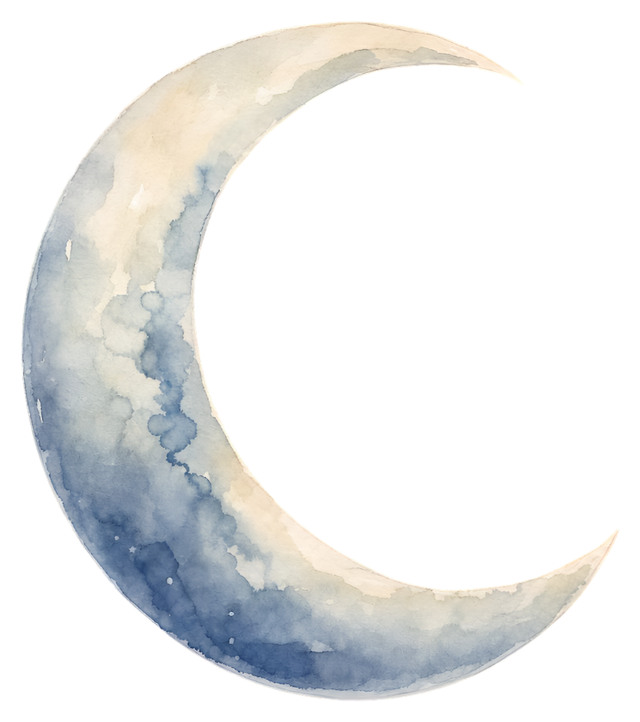
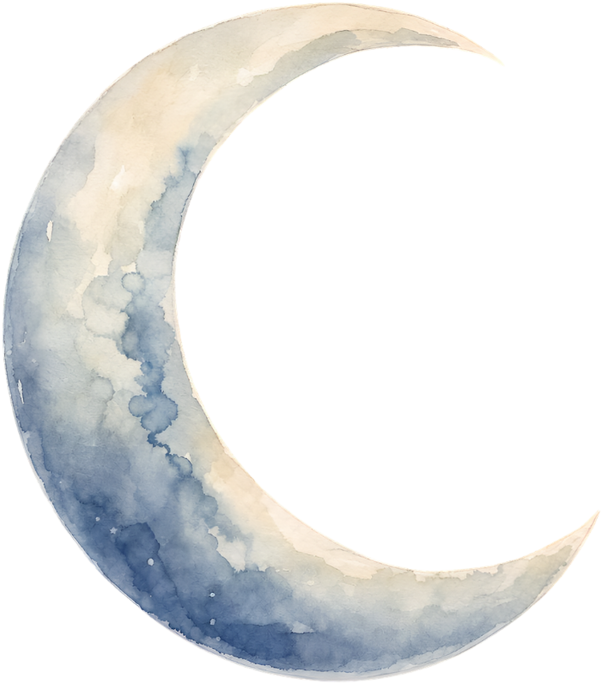
Crescent moon beside the wordmark in the header and menu
A new Logo component puts the watercolor moon to the left of "NEW MOON
BIRTH", as tall as the letters. It's set from --wordmark-width, so the
two stay matched at every header size. moon-mark.png is trimmed to the
moon's edges so its height lines up with the letters.

Astro serves the moon as 16x18 AVIF/WebP at 1x, 2x and 3x, from 0.7 to
1.6 KB each.

Claude-Session: https://claude.ai/code/session_017jWewHXSHjW9trmjaXiazT

Changed region(s): [[0.0, 0.0, 1.0, 1.0]]

diff --git a/README.md b/README.md
@@ -80,7 +80,7 @@ public/
   og-image.png             Share image for Facebook, X, and other link previews, 1200 x 630. It is logo-wide.png with a margin.
 src/
   assets/
-    moon-mark.png          Moon cut from logo.png with a transparent background
+    moon-mark.png          Moon cut from logo.png with a transparent background, trimmed. The header and menu show it beside the wordmark
     photos/                Stock photos. SOURCES.md lists where each one came from.
   components/
     ContactForm.tsx        React island for the contact form
